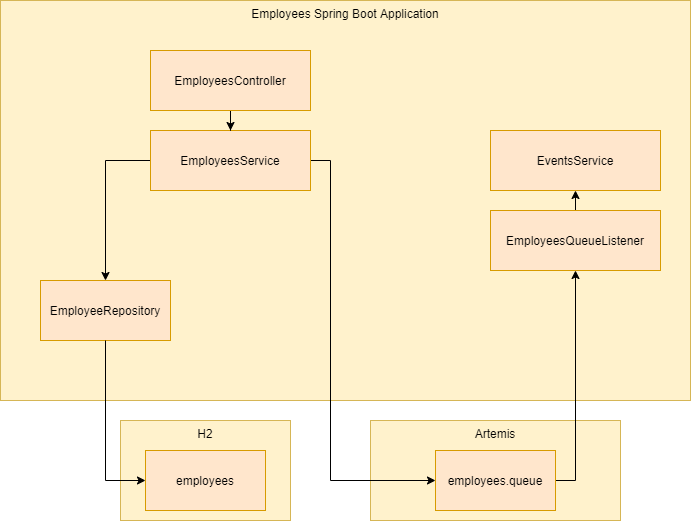
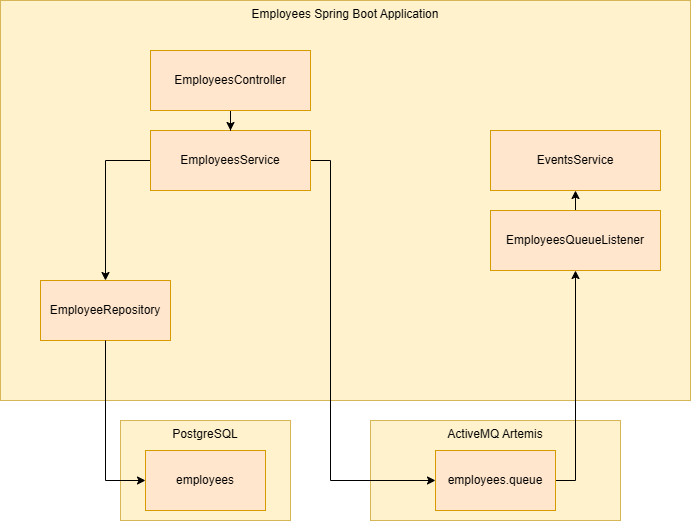
Elosztott tranzakciókezelés Spring Boottal poszt frissítése

diff --git a/_posts/2021-01-04-spring-boot-elosztott-tranzakciokezeles.md b/_posts/2021-01-04-spring-boot-elosztott-tranzakciokezeles.md
@@ -11,6 +11,8 @@ modified_time: '2021-01-04T10:00:00.000+01:00'
 description: Egy tranzakcióban egy adatbázis beszúrás és egy JMS üzenetküldés.
 ---
 
+Frissítve: 2025. január 10-én
+
 A tranzakciókezelésről már többször írtam. Egy bevezető
 elérhető a [Tranzakciókezelés EJB 3 és Spring környezetben](/2010/05/31/tranzakciokezeles.html)
 címen is, melyet most frissítettem.
@@ -20,12 +22,10 @@ tranzakciókezelést végezni.
 
 Elosztott tranzakciókezelést akkor használunk, ha egy tranzakcióba
 szeretnénk foglalni két külön adatbázisban történő műveletet,
-vagy még gyakoribb példa, ha egy tranzakcióba szeretnénk foglalni
-egy adatbázis beszúrást és egy JMS üzenet elküldését. Látható,
+vagy egy adatbázis beszúrást és egy JMS üzenet elküldését. Látható,
 hogy nem csak adatbázisok képesek tranzakcióban részt venni, hanem
-pl. JMS-en elérhető üzenetkezelő middleware-ek 
-(Message Oriented Middleware - MOM) is. Összefoglaló nevén ezek
-un. erőforráskezelők.
+pl. JMS providerek (más néven Message Oriented Middleware, azaz MOM) is. Összefoglaló nevén ezek
+ún. erőforráskezelők.
 
 Az elosztott tranzakciókezeléshez egy tranzakció koordinátort kell kinevezni, aki
 irányítja a tranzakciót. Itt jön képbe a two-phase commit
@@ -37,34 +37,39 @@ koordinátorral az X/Open XA protokollon keresztül kommunikálnak.
 <!-- more -->
 
 Java környezetben elosztott tranzakciók kezelésére a JTA szabványt
-használjuk. Ez két részből áll. A `javax.transaction` csomagban
+használjuk. Ez két részből áll. A `jakarta.transaction` csomagban
 lévő interfészek és annotációk lehetővé teszik, hogy az 
 alkalmazás a tranzakciókra vonatkozó szabályokat adjon meg.
-Itt van pl. a `@javax.transaction.Transactional` annotáció.
+Itt van pl. a `@jakarta.transaction.Transactional` annotáció.
 Spring esetén nem ezt, hanem a saját `@org.springframework.transaction.annotation.Transactional`
 annotációját használjuk.
-A `javax.transaction.xa` csomagban lévő interfészek pedig
+A `jakarta.transaction.xa` csomagban lévő interfészek pedig
 API-t biztosítanak a tranzakció koordinátor (, melyet a JTA Transaction Managernek hív) és az
 erőforráskezelők (Resource Manager) közötti kommunikációra. Így tudnak egymáshoz
 lazán kapcsolódva együttműködni.
 
 ![JTA](/artifacts/posts/2021-01-04-spring-boot-elosztott-tranzakciokezeles/jta.png)
 
-Több JTA implementáció is van, mint pl. az Atomicos vagy Narayana. A Spring
-jelenleg az Atomicost támogatja. Ehhez használatához csak annyit kell tenni,
-hogy a hozzá tartozó starter projektet fel kell venni függőségként a `pom.xml` állományba. 
+Több JTA implementáció is van, mint pl. az Atomicos vagy Narayana. A Spring Boot 2-es verziói
+még támogatták az Atomicos-t, azonban a 3-as verzióban ezt megszüntették. 
+
+Ezért az Atomicos saját Starter-ért kell felvenni a függőségek közé.
+
+Sajnos ez jelenleg nem támogatja a Spring Boot 3.4-es verzióit, ahogy egy [GitHub issue](https://github.com/atomikos/transactions-essentials/issues/234)
+is jelzi.
 
 ```xml
 <dependency>
-    <groupId>org.springframework.boot</groupId>
-    <artifactId>spring-boot-starter-jta-atomikos</artifactId>
+    <groupId>com.atomikos</groupId>
+    <artifactId>transactions-spring-boot3-starter</artifactId>
+    <version>6.0.0</version>
 </dependency>
 ```
 
 A [https://github.com/vicziani/jtechlog-jms-transaction](https://github.com/vicziani/jtechlog-jms-transaction)
-címen található egy példa projekt. Ez elindít egy beágyazott
-H2 adatbázist, melyhez Spring Data JPA-val fér hozzá. Valamint elindít
-egy beágyazott Apache Artemis JMS providert.
+címen található egy példa projekt. Ez Testcontainers segítségével elindít egy
+PostgreSQL adatbázist, melyhez Spring Data JPA-val fér hozzá. Valamint elindít
+egy beágyazott Apache ActiveMQ Artemis JMS providert.
 
 ![Alkalmazás](/artifacts/posts/2021-01-04-spring-boot-elosztott-tranzakciokezeles/alkalmazas.png)
 
@@ -74,9 +79,12 @@ táblába az `EmployeeRepository` használatával,
 valamint elküld egy üzenetet a `employees.queue` sorba a `JmsTemplate`
 használatával. A sort egy `EmployeesQueueListener` figyeli,
 mely ha üzenetet kap, továbbhív az `EventsService`-be.
-Ha egy kivételt dobunk, akkor sem az adatbázis
-beszúrás, sem a JMS üzenetküldés nem kerül végrehajtásra,
-hiszen mindkettő rollbackel.
+
+Amennyiben egy kivételt dobunk, és az Atomicos nincs a függőségek között,
+az alkalmazás nem ír az adatbázisba, azonban az üzenetet elküldi.
+
+Ha az Atomicos szerepel a függőségek között, mindkettő rollbackkel, azaz
+az alkalmazás nem ír az adatbázisba és üzenetet sem küld.
 
 A projekthez egy `EmployeesIT` integrációs teszt is tartozik,
 mely teszteli a helyes értékkel a commitot és helytelen értékkel a rollbacket.
